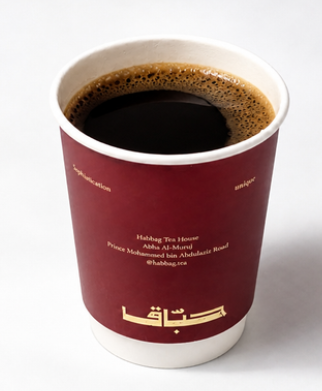
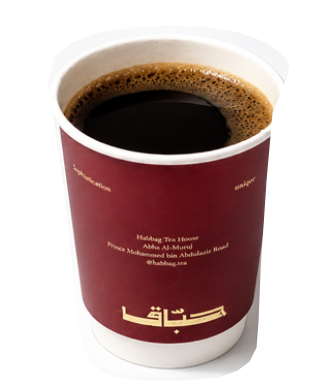
Blend and resize coffee of the day

Changed region(s): [[0.7143, 0.2148, 1.0, 0.9821]]

diff --git a/style.css b/style.css
@@ -186,3 +186,7 @@ footer .leaf{font-size:20px}
 .price-option b{color:var(--gold);font-size:10px;font-weight:600}
 .availability-note,.free-water-note{text-align:center;margin:14px 0 0;color:#b9abad;font-size:10px;line-height:1.8}
 .free-water-note{margin-top:8px;color:var(--gold);font-weight:600}
+
+/* Keep today's coffee cutout transparent and scaled to match neighboring cup products. */
+.coffee-of-the-day-card .product-viewer img{width:48%;height:68%;object-fit:contain;object-position:center}
+@media(max-width:650px){.coffee-of-the-day-card .product-viewer img{width:58%;height:72%}}
